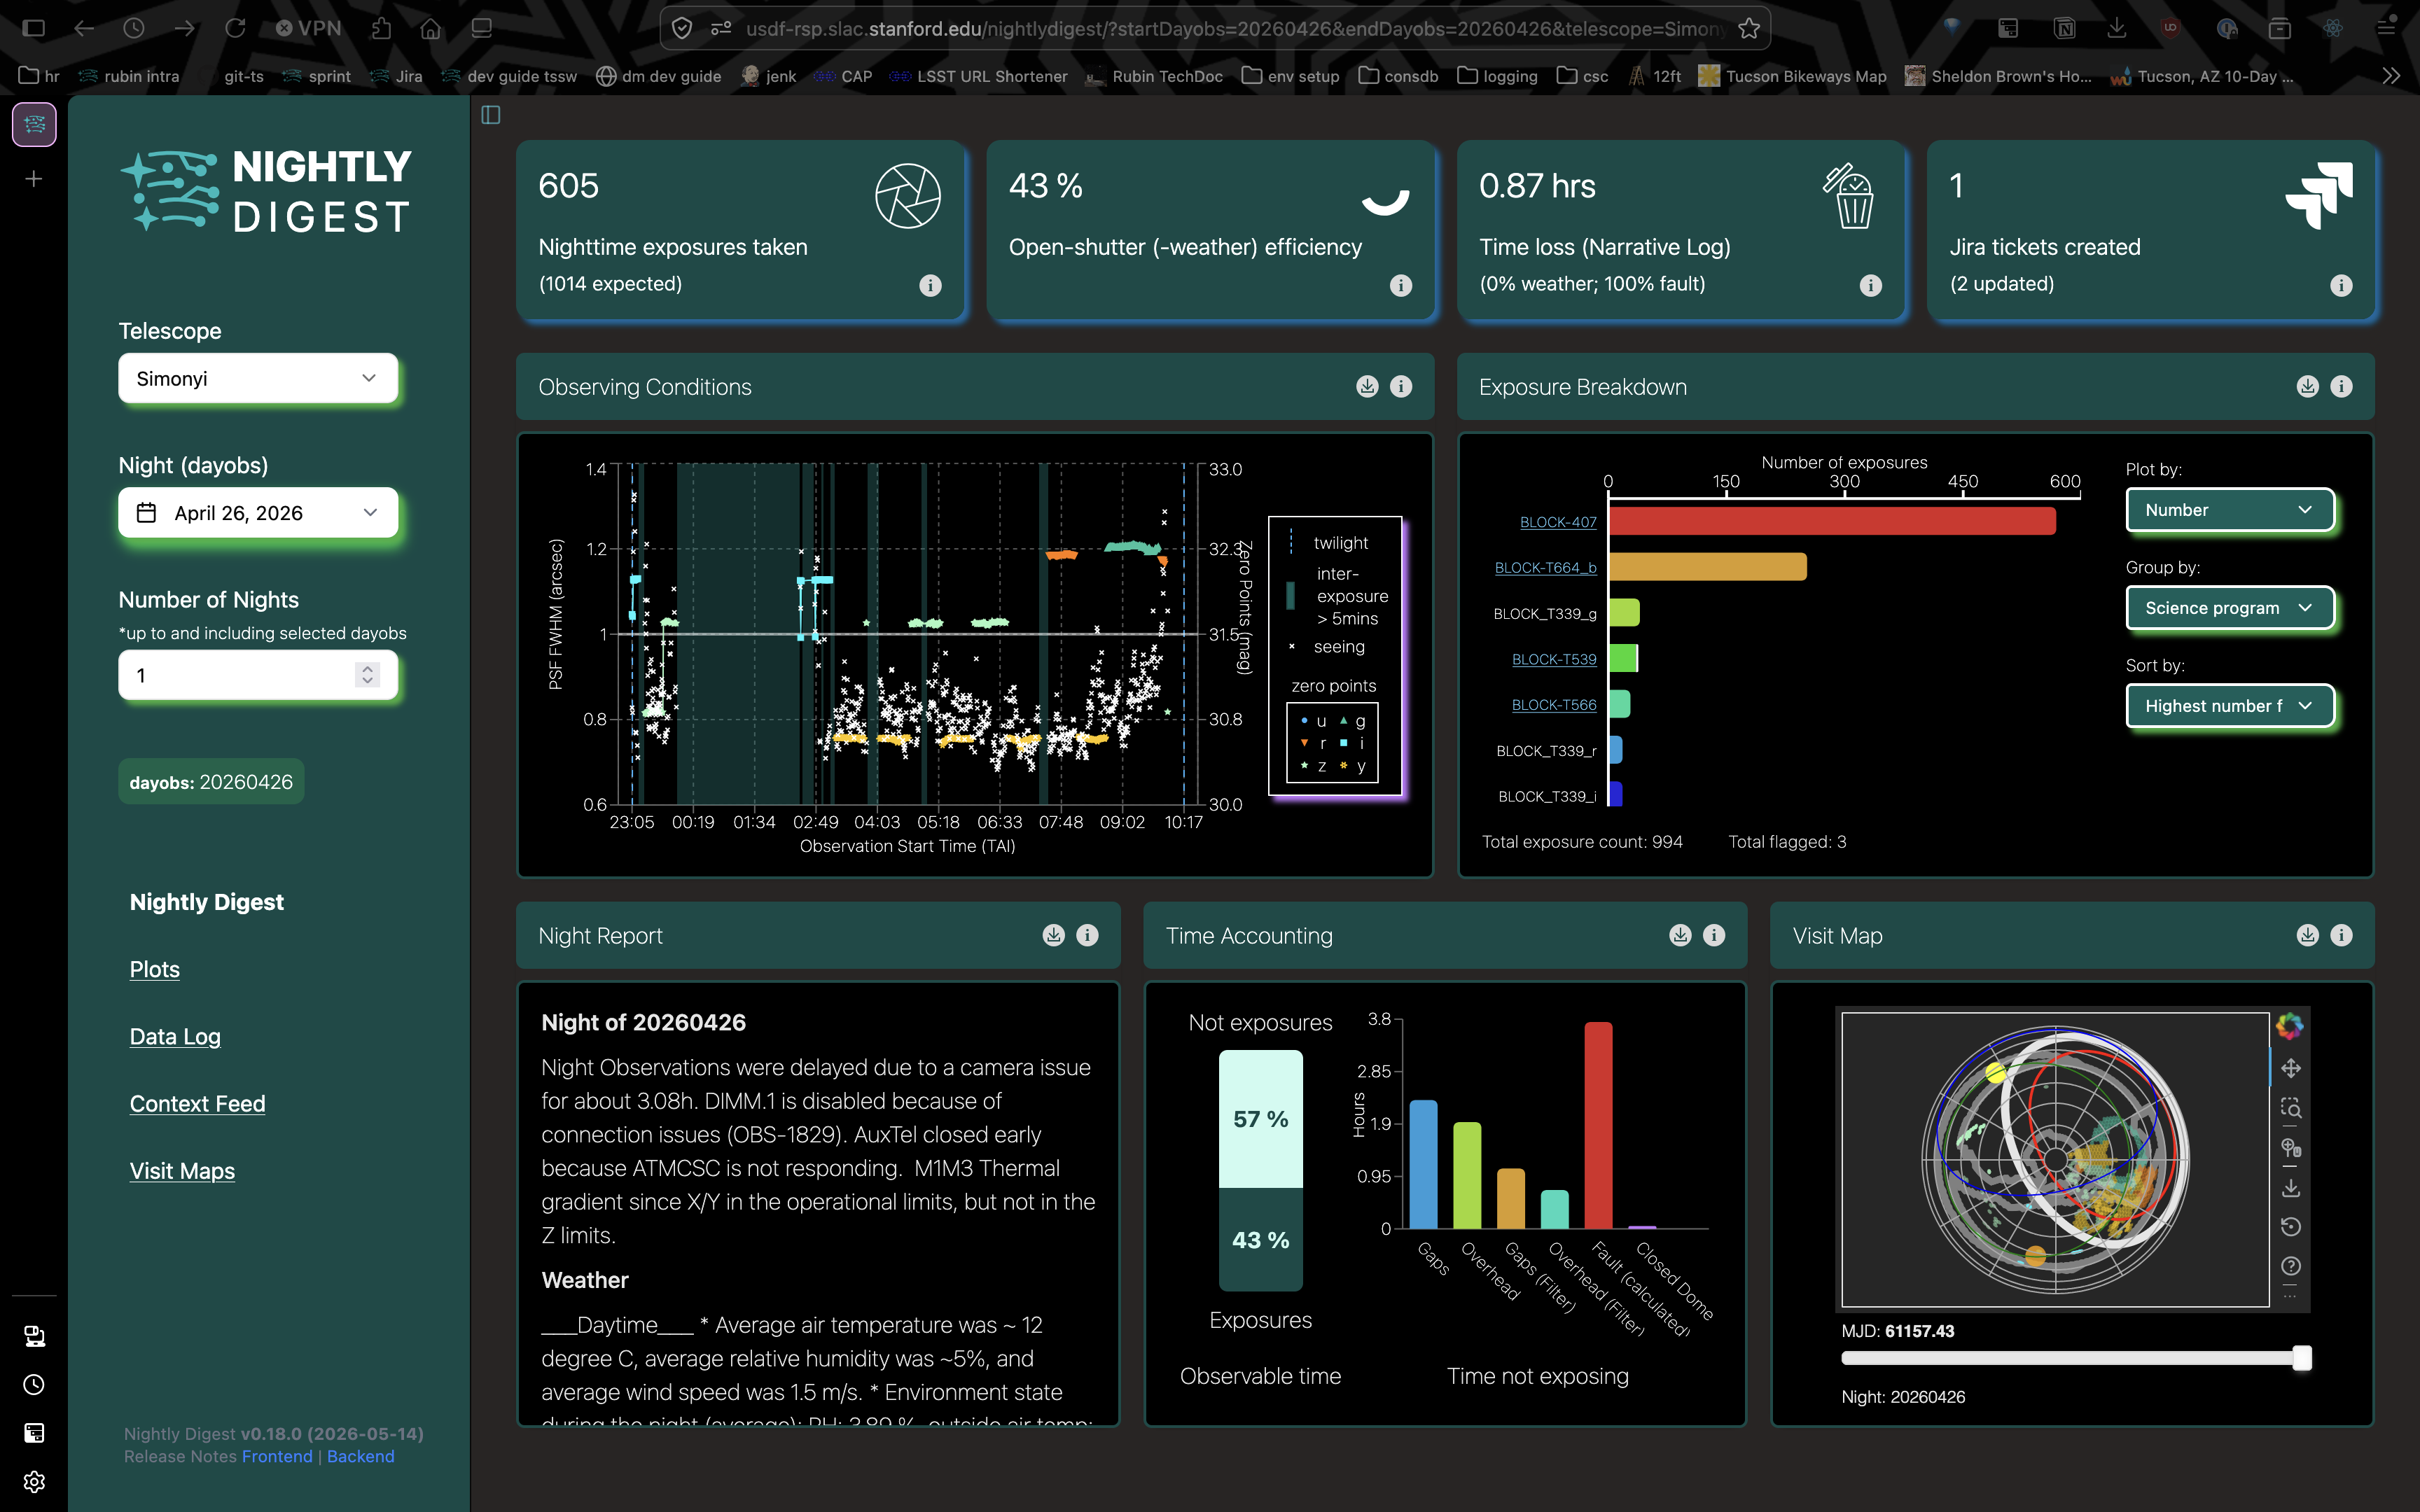
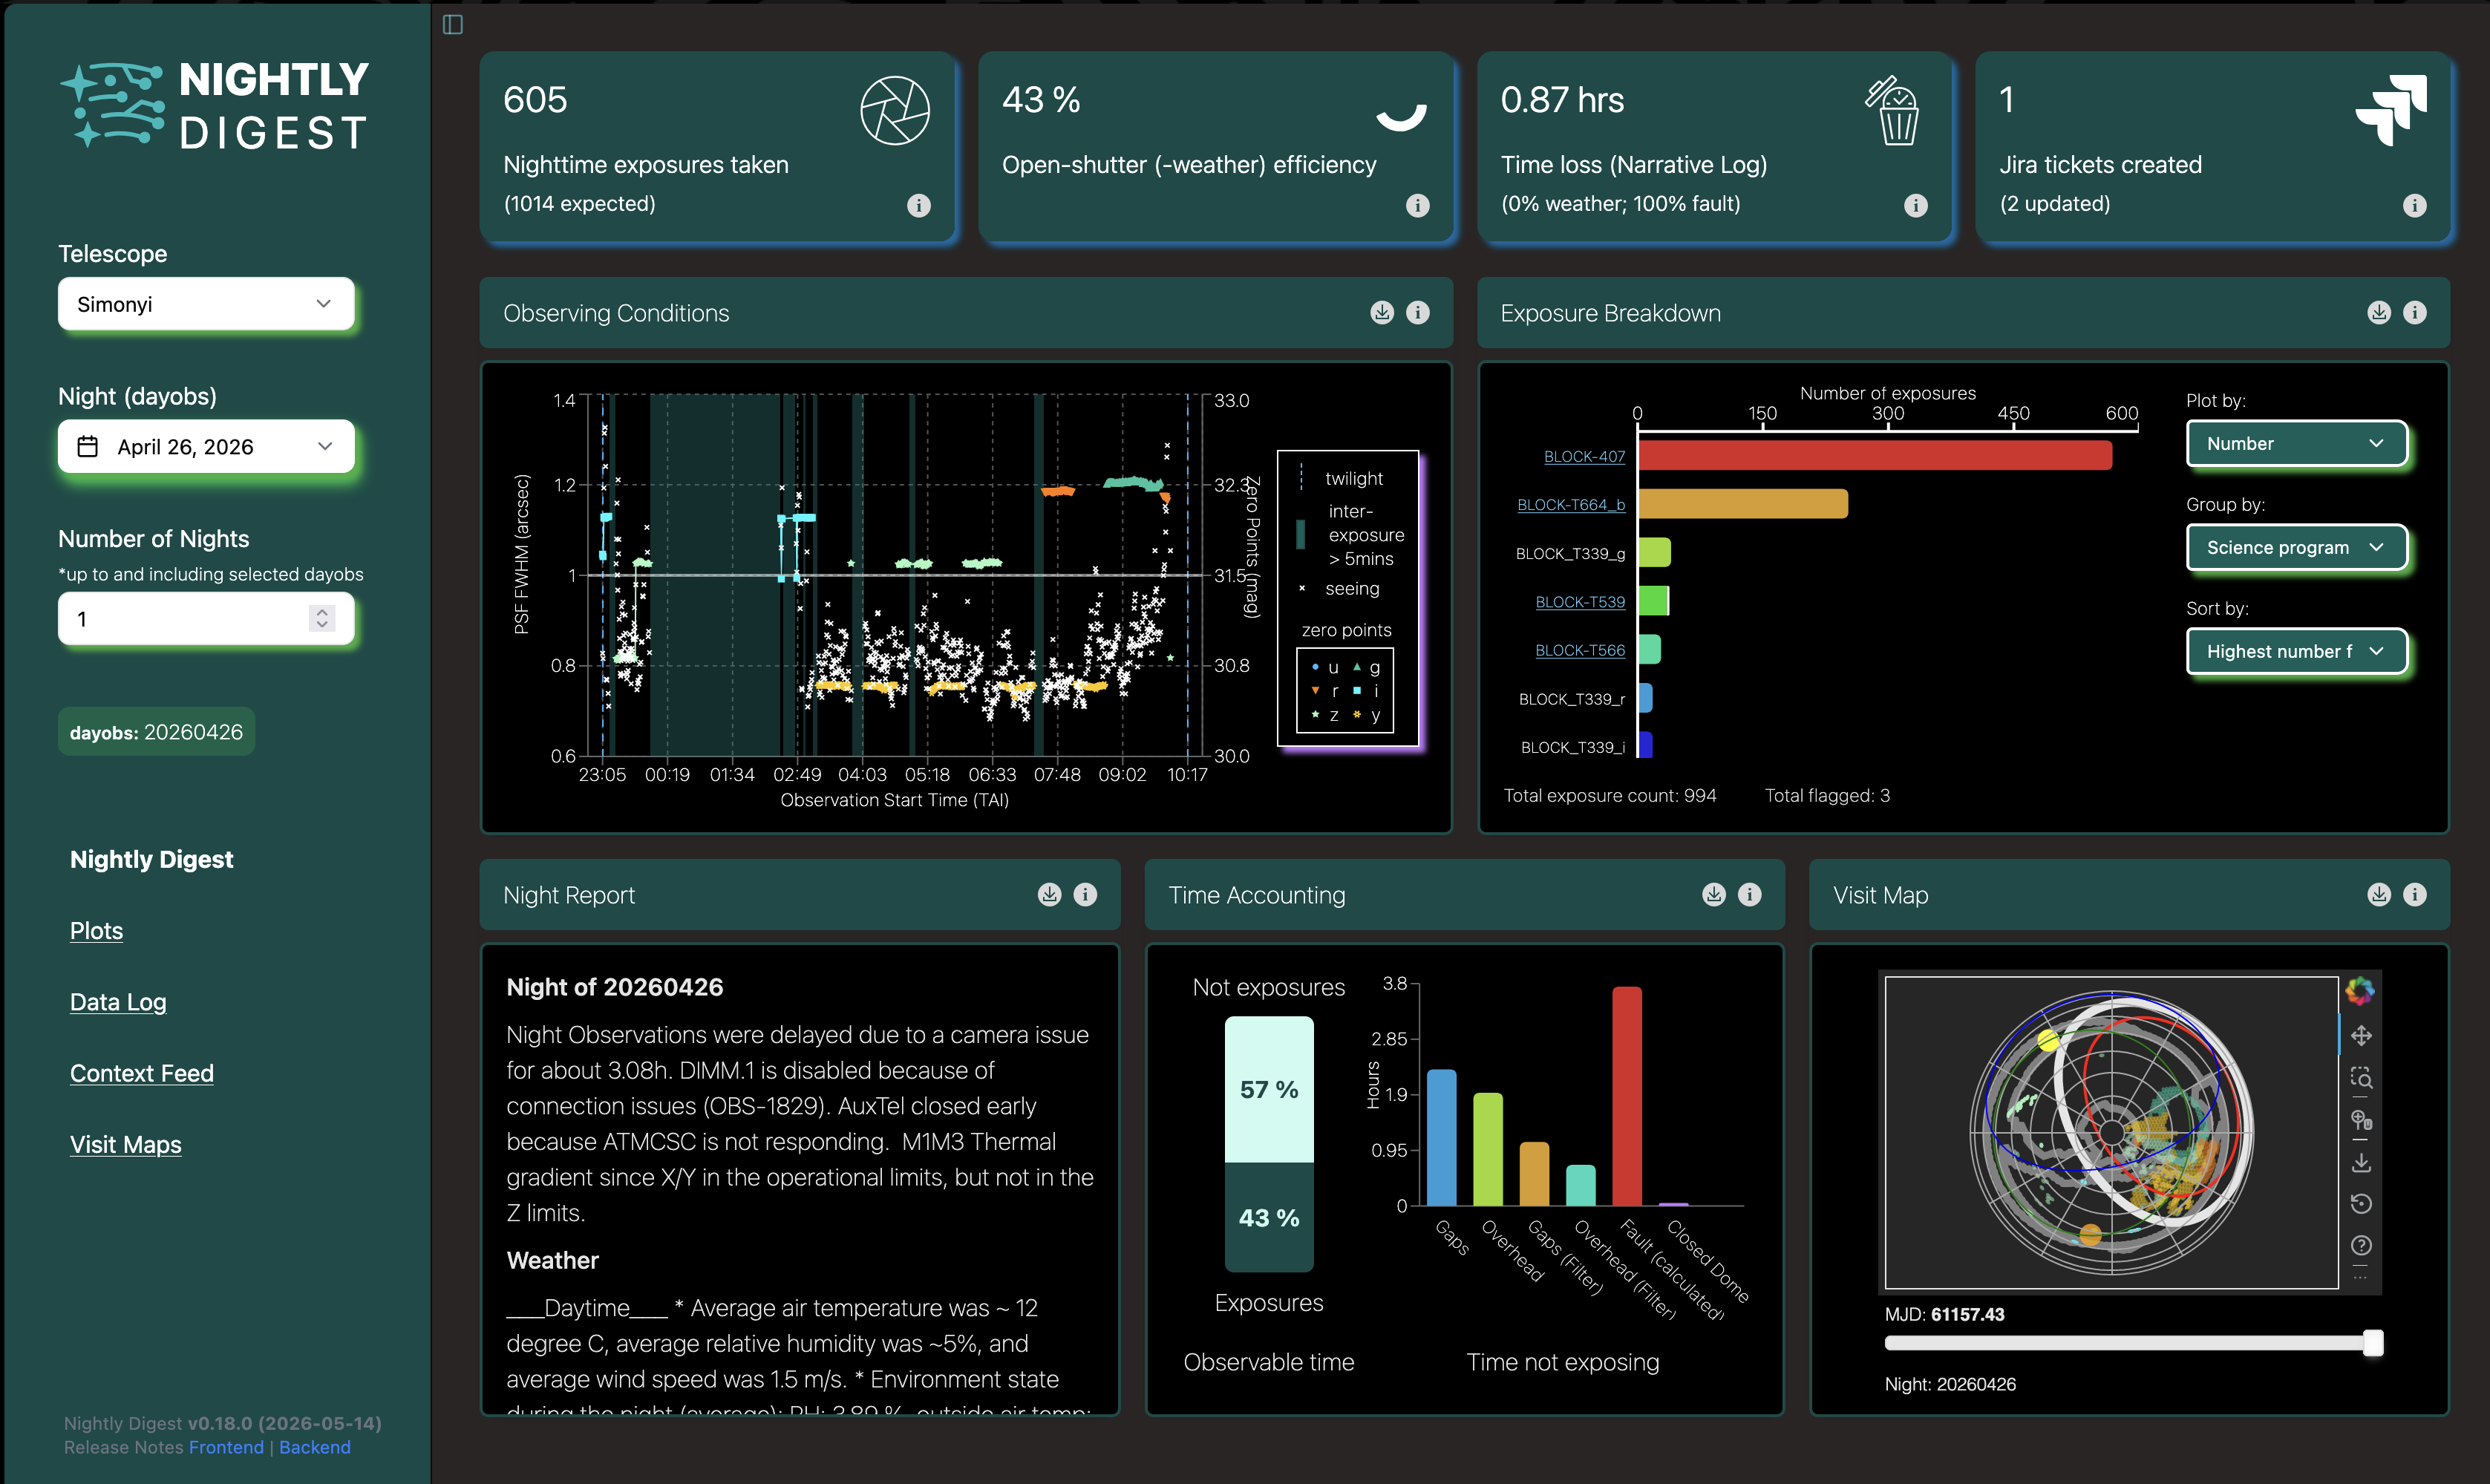
Update image and sizes

diff --git a/acronyms.tex b/acronyms.tex
@@ -1,0 +1,42 @@
+\addtocounter{table}{-1}
+\begin{longtable}{p{0.145\textwidth}p{0.8\textwidth}}\hline
+\textbf{Acronym} & \textbf{Description}  \\\hline
+
+AAL & Astronomy Australia Limited \\\hline
+API & Application Programming Interface \\\hline
+AST & NSF Division of Astronomical Sciences \\\hline
+AURA & Association of Universities for Research in Astronomy \\\hline
+AZ & Azimuth \\\hline
+B & Byte (8 bit) \\\hline
+CNRS & Centre national de la recherche scientifique \\\hline
+DE-AC02 & Department of Energy contract number prefix \\\hline
+DMTN & DM Technical Note \\\hline
+EFD & Engineering and Facility Database \\\hline
+FBS & Feature-Based Scheduler \\\hline
+FWHM & Full Width at Half-Maximum \\\hline
+HI & Hydrogen iodide \\\hline
+IN2P3 & Institut National de Physique Nucl√©aire et de Physique des Particules \\\hline
+LOVE & LSST Operators Visualization Environment \\\hline
+LSE & LSST Systems Engineering (Document Handle) \\\hline
+LSST & Legacy Survey of Space and Time \\\hline
+LSST-DA & LSST Discovery Alliance \\\hline
+LSSTCam & LSST Science Camera \\\hline
+LaTeX & (Leslie) Lamport TeX (document markup language and document preparation system) \\\hline
+NOIRLab & NSF's National Optical-Infrared Astronomy Research Laboratory; \url{https://noirlab.edu} \\\hline
+NSF & National Science Foundation \\\hline
+OLE & Observatory Logging Environment \\\hline
+PSF & Point Spread Function \\\hline
+RA & Rapid Analysis \\\hline
+RSP & Rubin Science Platform \\\hline
+RTN & Rubin Technical Note \\\hline
+SIT & System Integration, Test \\\hline
+SLAC & SLAC National Accelerator Laboratory \\\hline
+SQR & SQuARE document handle \\\hline
+STFC & UK Science and Technology Facilities Council \\\hline
+TOO & Target Of Opportunity \\\hline
+UI & User Interface \\\hline
+UK & United Kingdom \\\hline
+US & United States \\\hline
+USA & United States of America \\\hline
+USDF & United States Data Facility \\\hline
+\end{longtable}

diff --git a/authors.tex b/authors.tex
@@ -1,0 +1,15 @@
+
+\author[a]{Valerie R. Becker \thanks{[email redacted]}}
+\author[b]{Sebastian I. Aranda}
+\author[c]{Eman Ali}
+\author[c]{Alice Serene}
+\author[c]{Owen Cole}
+\author[d,e]{Scot J. Kleinman}
+
+\affil[a]{Vera C. Rubin Observatory/NSF NOIRLab, Tucson, AZ, USA}
+\affil[b]{Vera C. Rubin Observatory/NSF NOIRLab, La Serena, Coquimbo, Chile}
+\affil[c]{Swinburne University of Technology, Melbourne, VIC, Australia}
+\affil[d]{AURA, Rubin Observatory Construction, Tucson, AZ, USA}
+\affil[e]{Astromanager LLC, Hilo, HI, USA}
+
+\authorinfo{Further author information: (Send correspondence to V.R.B.)\\V.R.B.: E-mail: [email redacted], Telephone: 1 [phone redacted]}

diff --git a/meta.tex b/meta.tex
@@ -1,0 +1,5 @@
+% GENERATED FILE -- edit this in the Makefile
+\newcommand{\lsstDocType}{TSTN}
+\newcommand{\lsstDocNum}{063}
+\newcommand{\vcsRevision}{5ddcf25-dirty}
+\newcommand{\vcsDate}{2026-05-28}